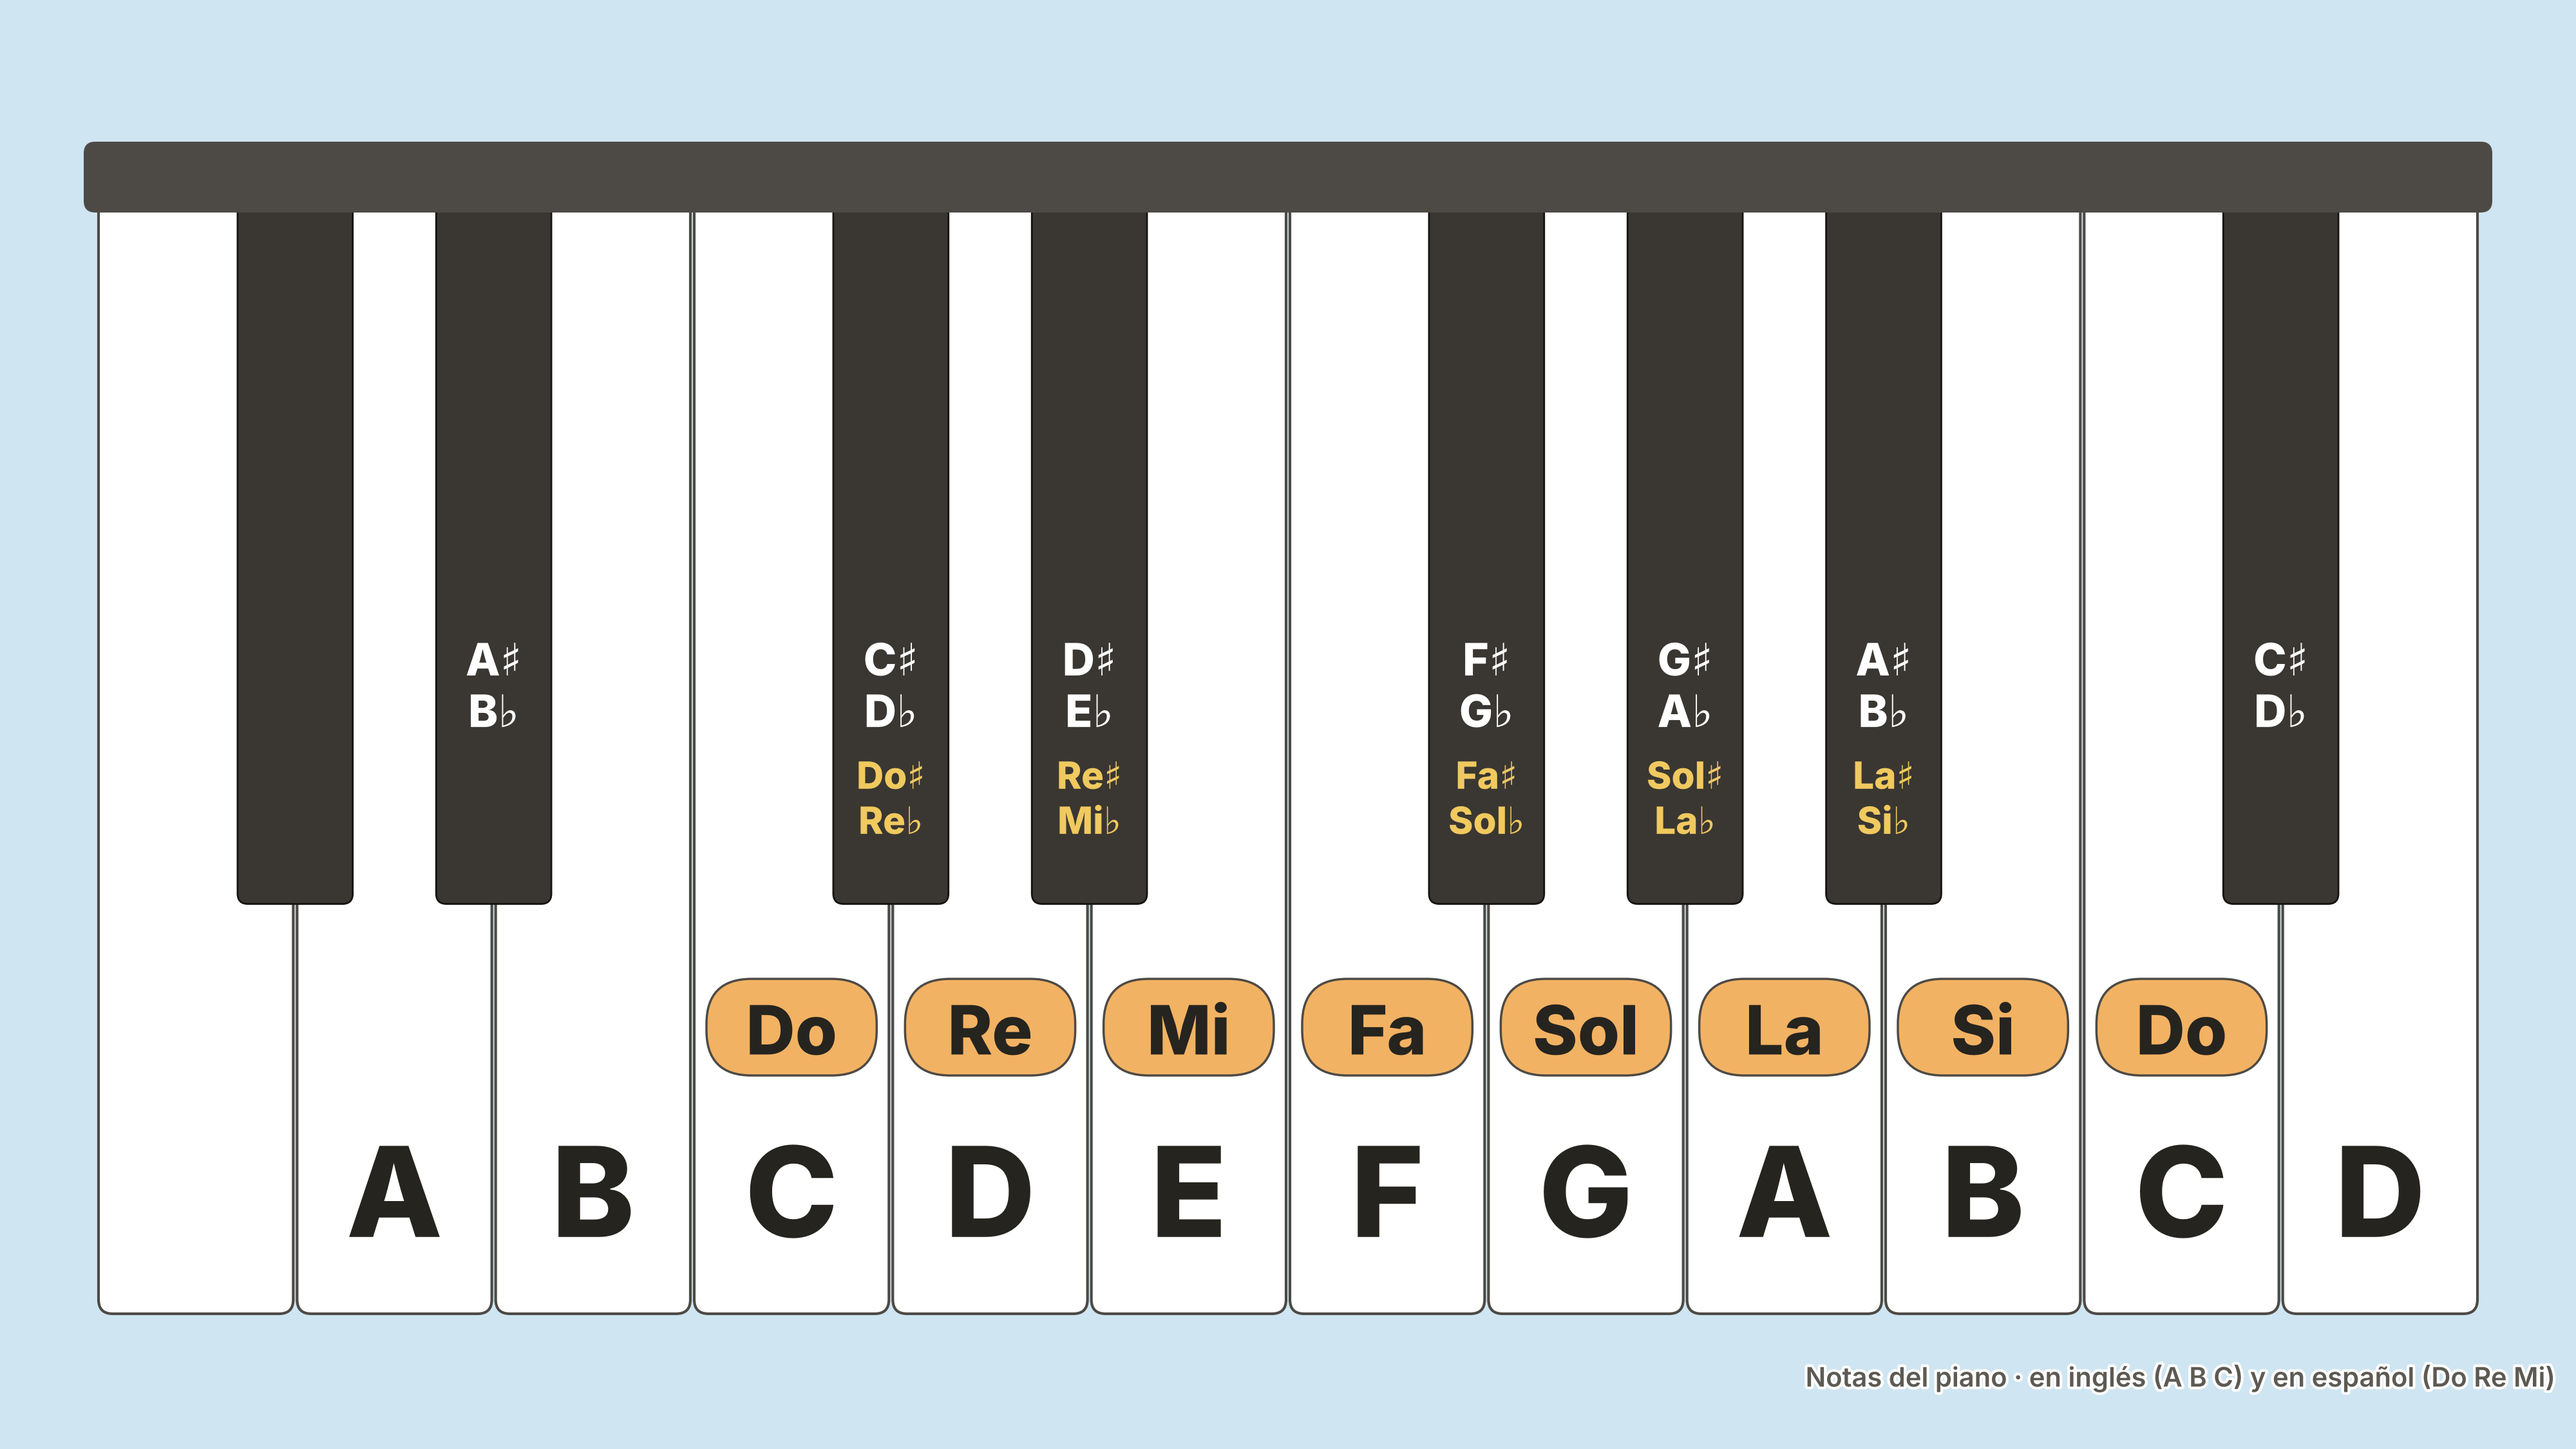
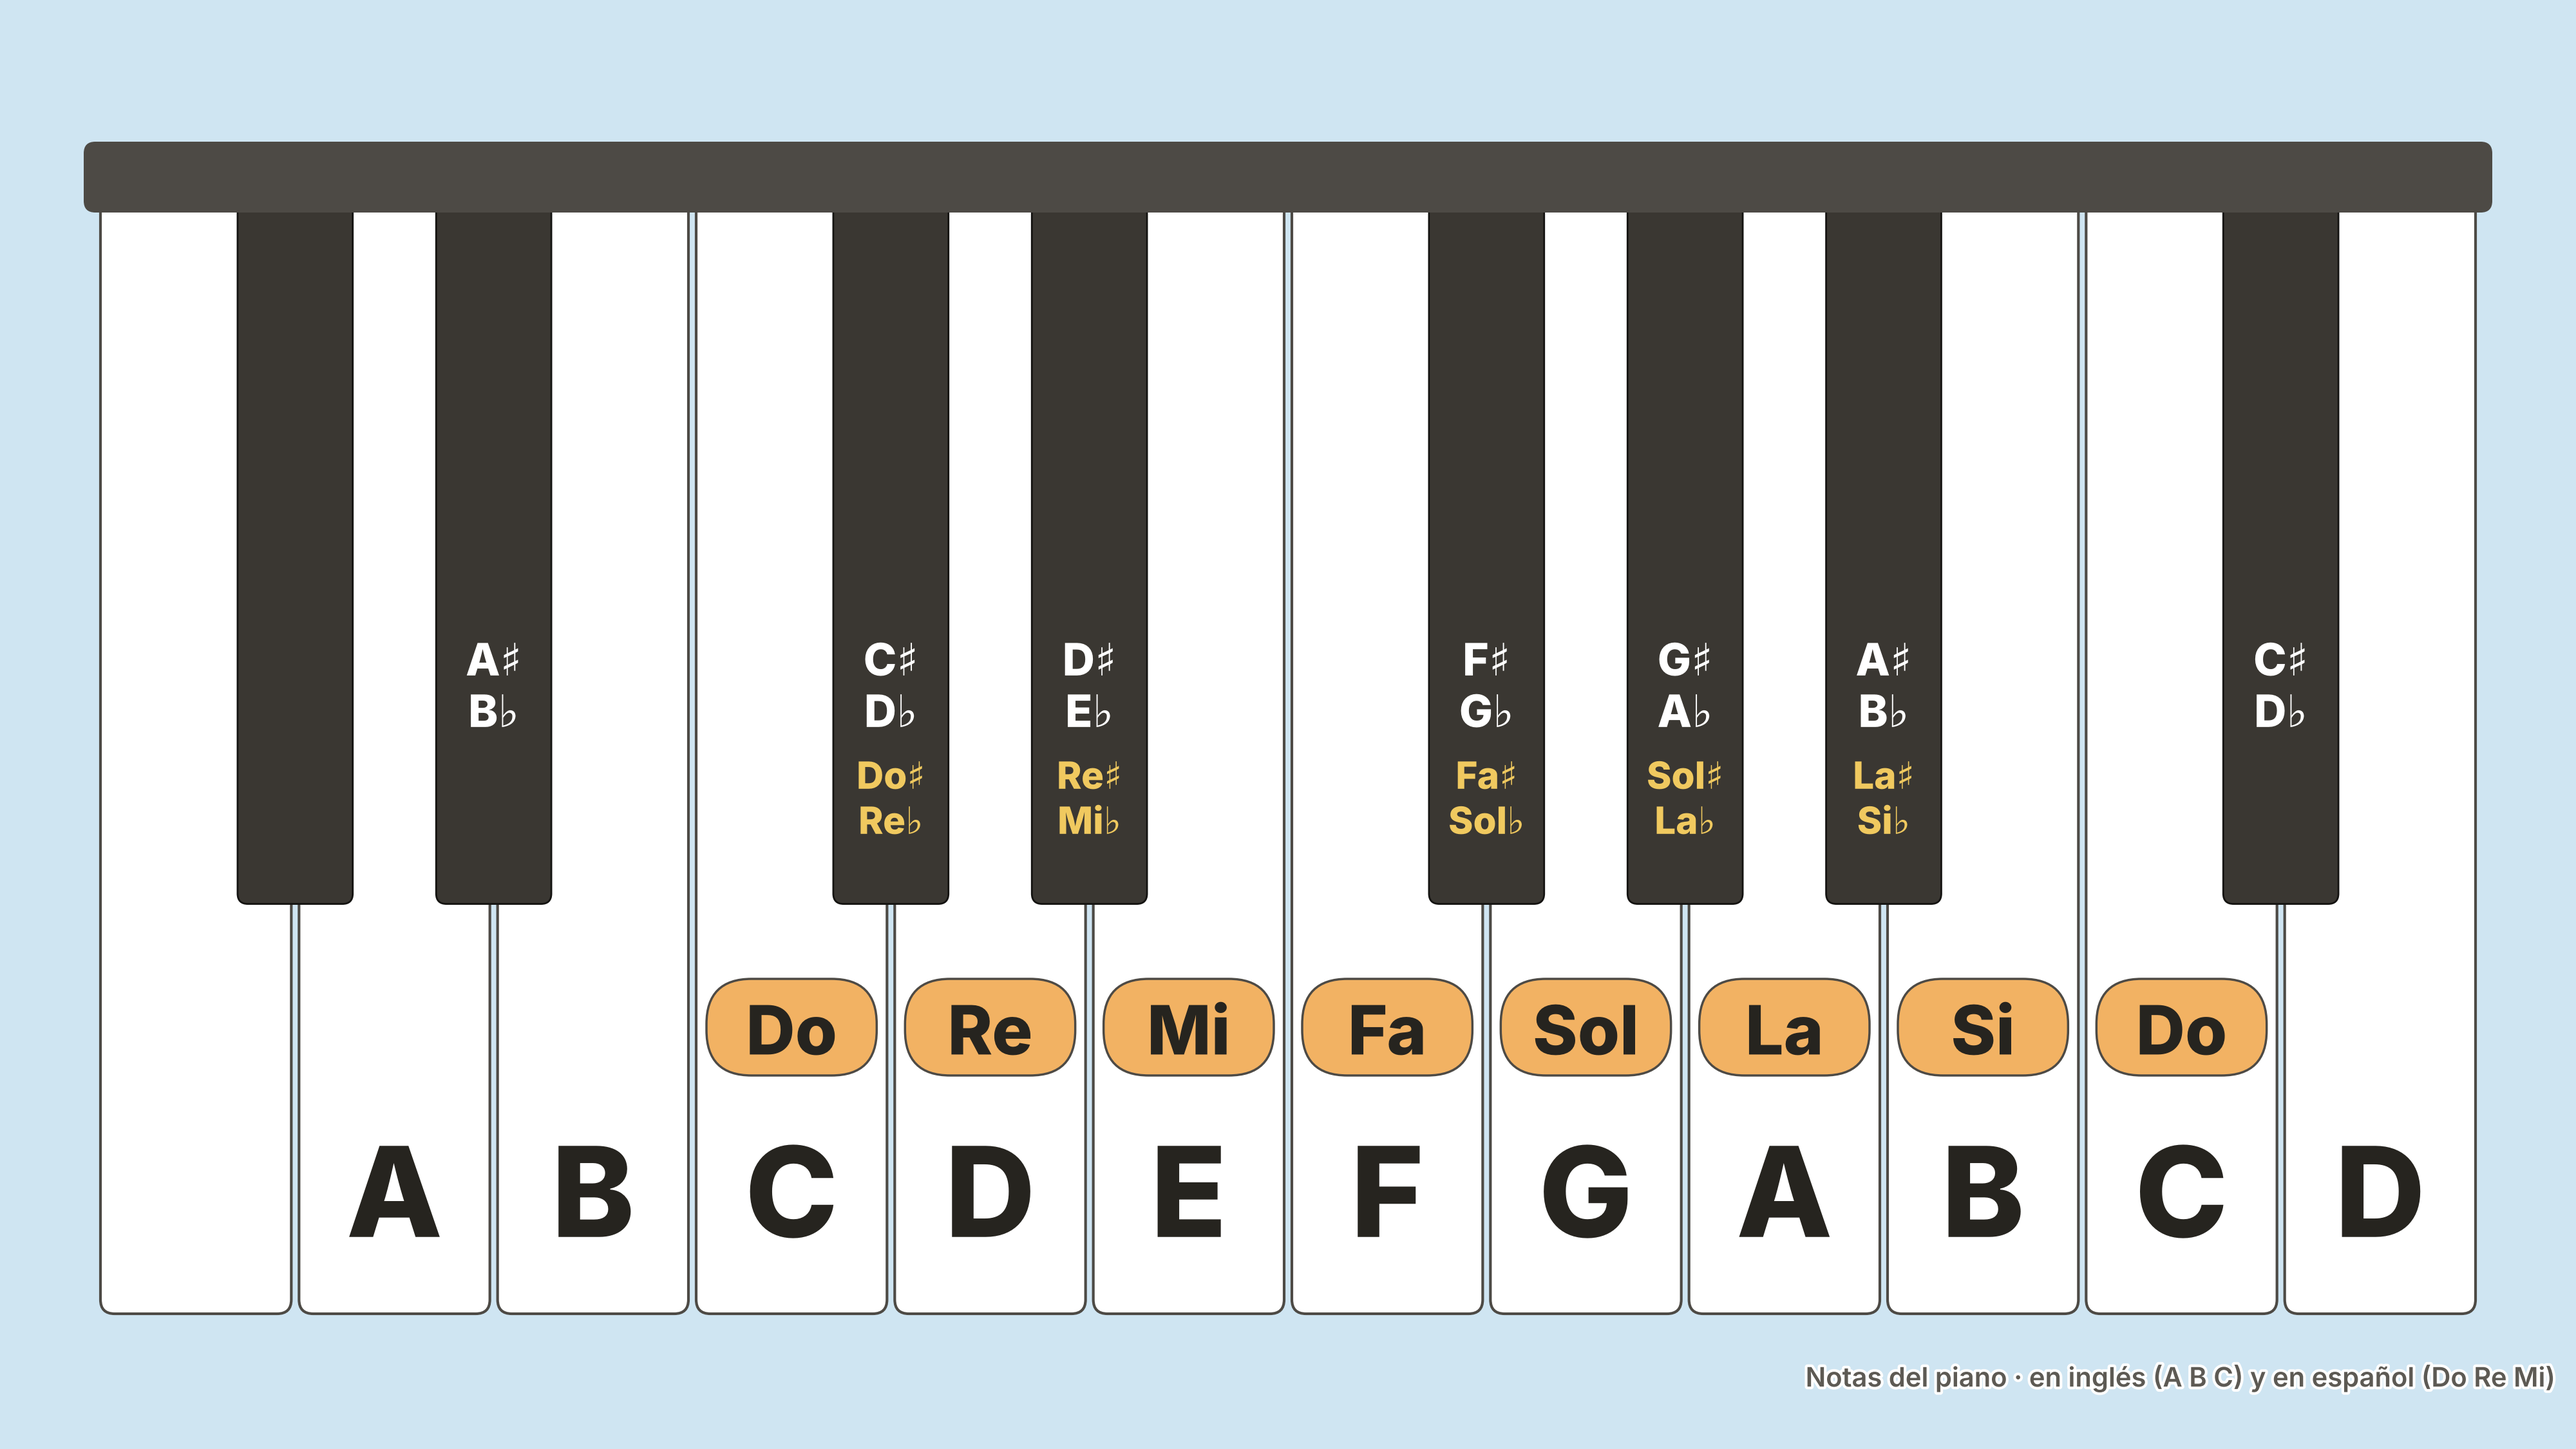
Piano: wider gap between white keys
Claude-Session: https://claude.ai/code/session_01EDKfW2ymmeBjWjJB1i7hni

diff --git a/tvmaps/maps_piano.py b/tvmaps/maps_piano.py
@@ -120,7 +120,7 @@ def _render(theme_name, footer):
     klen = KEY_TOP - KEY_BOTTOM
     bw, blen = kw * BLACK_W_FRAC, klen * BLACK_LEN_FRAC
     x0 = MARGIN_X
-    gap = 6  # without it the keys read as one slab
+    gap = 12  # without it the keys read as one slab
 
     # Case: a dark lid above the keys with a strip of red felt.
     if t["case"]:
